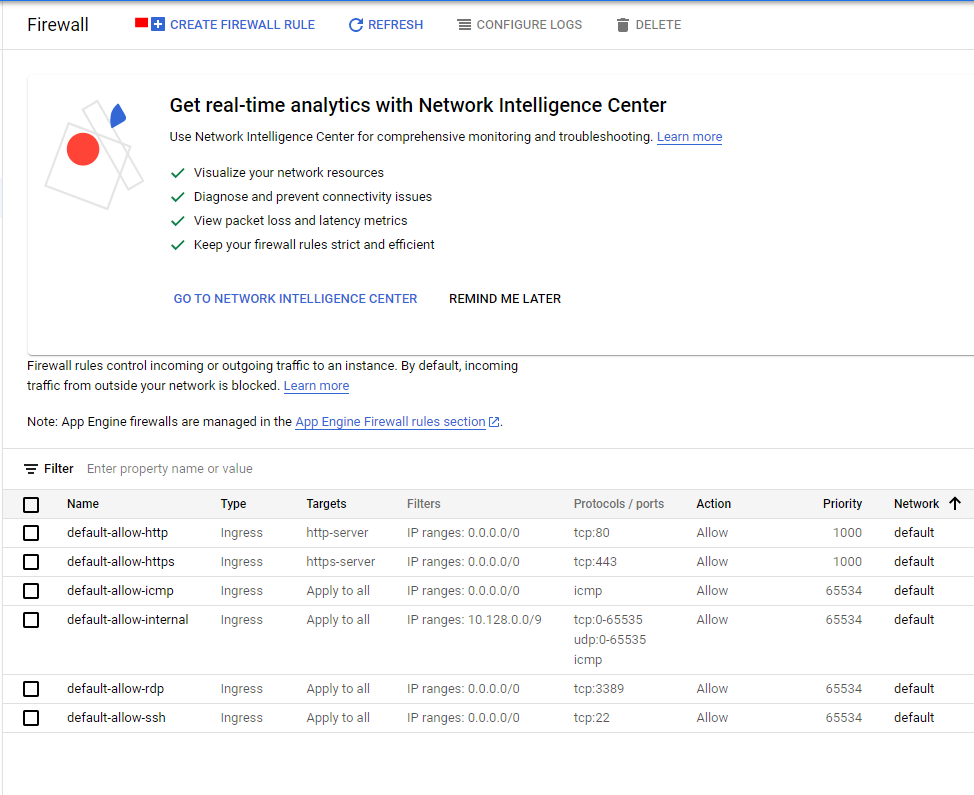
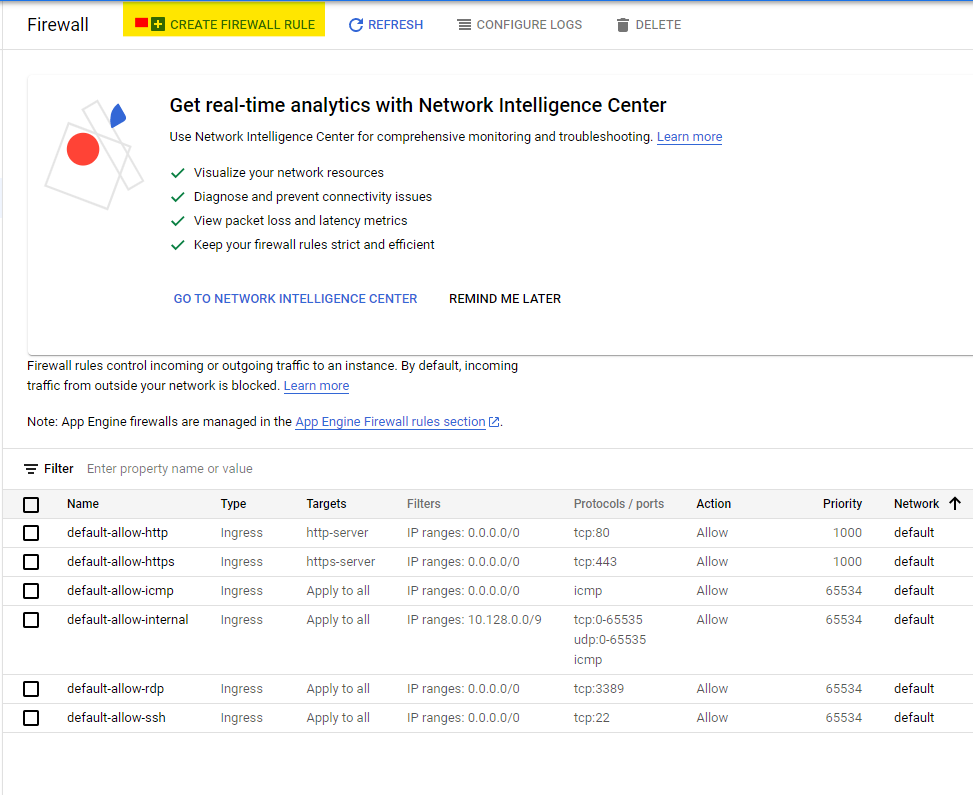
Se agrego las imágenes 17 a la 24

diff --git a/Practica1/Manual.md b/Practica1/Manual.md
@@ -4,7 +4,7 @@
 
 ### Escuela de Ciencias y Sistemas
 
-<p align="center"><h2>Práctica 1</h2></p>
+## Practica 1
 
 <hr>
 <br>
@@ -35,64 +35,26 @@
 <br>
 <hr>
 
+### Crear
 
-## Nuevo proyecto
-
-### Creamos nuestro proyecto, ingresamos el nombre y si deseamos podemos modificar el ID.
+#### Creamos nuestro proyecto
 
 <div>
     <p align="center">
        <img src="images/imagen1.PNG" width="500" alt="inicio"> 
-    <p>
-</div>
-
-### Seleccionamos el proyecto que se acaba de crear.
-
-<div>
-    <p align="center">
+        <br>
+        <br>
        <img src="images/imagen2.PNG" width="500" alt="inicio"> 
     <p>
 </div>
 
-## IAM y ADMIN
-### Agregamos y seleccionamos el rol que tendran nuestros compañeros de equipo en este caso se les otorgo el acceso completo.
+## Crear
+
+#### Creamos nuestro proyecto
 
 <div>
     <p align="center">
        <img src="images/imagen3.PNG" width="500" alt="inicio"> 
-    <p>
-</div>
-
-## Compute Engine
-### Seleccionamos VM Instances.
-<div>
-    <p align="center">
-       <img src="images/imagen4.PNG" width="500" alt="inicio"> 
-    <p>
-</div>
-
-## Creamos una instancia
-
-<div>
-    <p align="center">
-       <img src="images/imagen6.PNG" width="500" alt="inicio"> 
-    <p>
-</div>
-
-### Ingresamos un nombre y seleccionamos el tipo de maquina que deseamos.
-
-<div>
-    <p align="center">
-       <img src="images/imagen7-8.PNG" width="500" alt="inicio"> 
-    <p>
-</div>
-
-### podemos elegir el sistemas operativo en este caso se utilizara Debian y seleccionamos en el apartado de Firewall el acceso por HTTP y HTTPS.
-    
-
-<div>
-    <p align="center">
-       <img src="images/imagen7y8.PNG" width="500" alt="inicio"> 
     <p>
 </div>
 
@@ -207,5 +169,72 @@
 <div>
     <p align="center">
        <img src="images/imagen16.PNG" width="500" alt="inicio"> 
+    </p>
+</div>
+
+## DNS
+### Para la configuración del DNS se dejó la configuración que viene por defecto que son los de Google para evitar problemas mas adelante.
+
+```
+   Opcion 3
+```
+
+<div>
+    <p align="center">
+       <img src="images/imagen17.PNG" width="500" alt="inicio"> 
+    </p>
+</div>
+
+## Usuarios
+### Para la creación de los usuarios debe ingresar una palabra sencilla sin números y caracteres especiales, esto es para evitar problemas al momento de que el programa cree el archivo de conexión.
+
+<div>
+    <p align="center">
+       <img src="images/imagen18.PNG" width="500" alt="inicio"> 
+    </p>
+</div>
+
+## Firewall
+### Lo siguiente a realizar es la configuración del Firewall, para esto nos vamos al menú de Google cloud seleccionamos la opción VPC networks, y buscamos la opción que dice Firewall.
+
+<div>
+    <p align="center">
+       <img src="images/imagen20.PNG" width="500" alt="inicio"> 
+    </p>
+</div>
+
+## Reglas
+### Al selecciona la opción de firewall se muestra la siguiente pantalla en donde crearemos 2 reglas de firewall, que permita el trafico de entrada y salida, en la pantalla presionamos la opción Crear Regla de Firewall o Create Firewall Rule.
+
+<div>
+    <p align="center">
+       <img src="images/imagen21.PNG" width="500" alt="inicio"> 
+    </p>
+</div>
+
+## Regla de Entrada
+### Para la creación de la regla de entrada agregaremos un nombre y una descripción, dejamos las demás opciones como están y nos vamos a la opción de destinos, cambiamos la configuración que tiene por la opción que dice todas las instancias de red, para permitir el trafico.
+
+<div>
+    <p align="center">
+       <img src="images/imagen22.PNG" width="500" alt="inicio"> 
+    </p>
+</div>
+
+## Rangos de IP
+### En la opción de rangos de IP de origen se le va a ingresar los valores 0.0.0.0/0 para que permita el ingreso a toda IP, en la opción de Protocolos y puertos específicos seleccionamos la casilla que dice udp y le asignamos el valor de 1194 y presionamos el botón de crear.
+
+<div>
+    <p align="center">
+       <img src="images/imagen23.PNG" width="500" alt="inicio"> 
+    </p>
+</div>
+
+## Regla de Salida
+### En esta regla lo que va a cambiar es la dirección de los datos, entonces nos ubicamos en la opción de Dirección del Trafico se seleccionamos la casilla de salida, y las memas opciones se configuraran igual que la regla anterior.
+
+<div>
+    <p align="center">
+       <img src="images/imagen24.PNG" width="500" alt="inicio"> 
     </p>
 </div>
